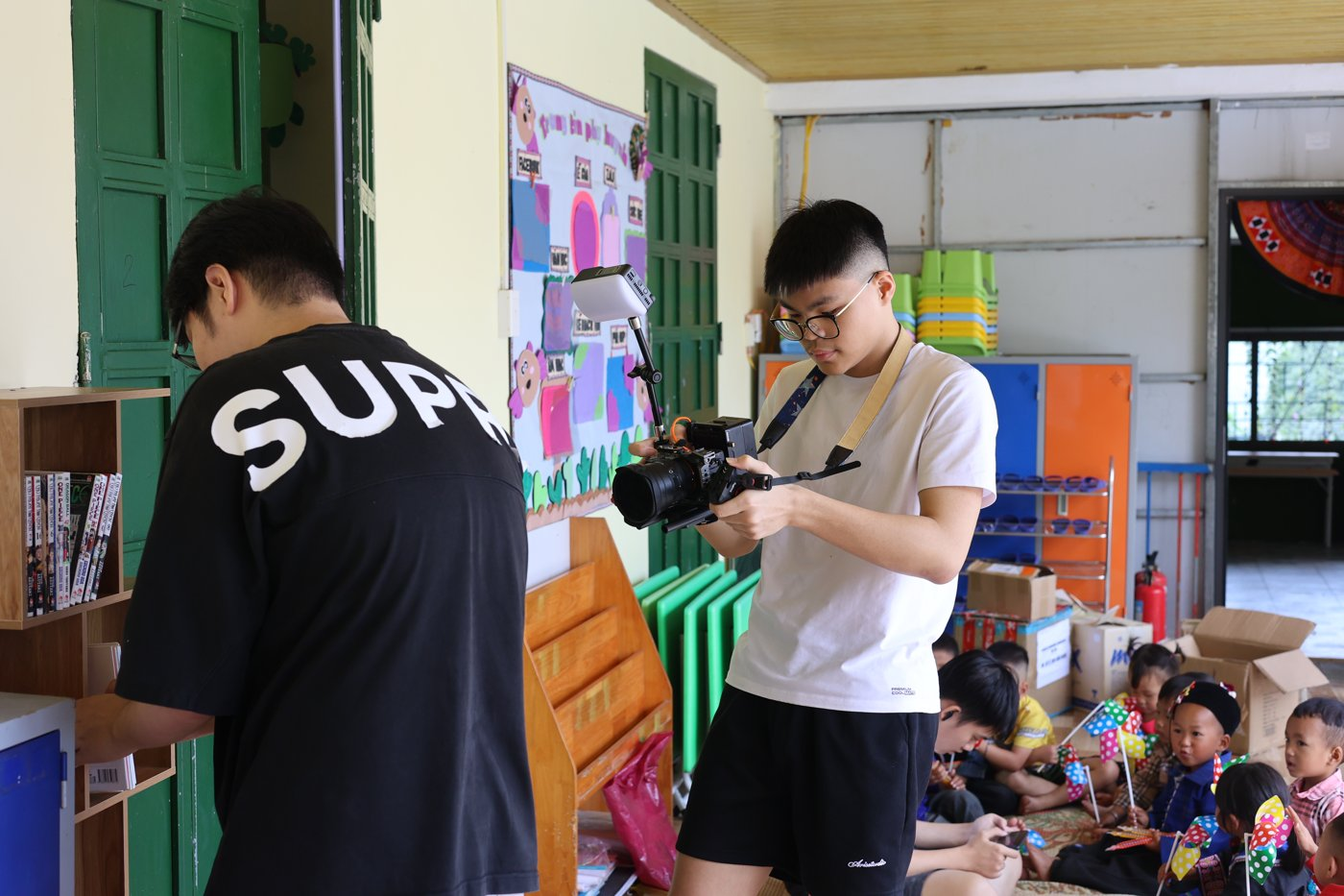
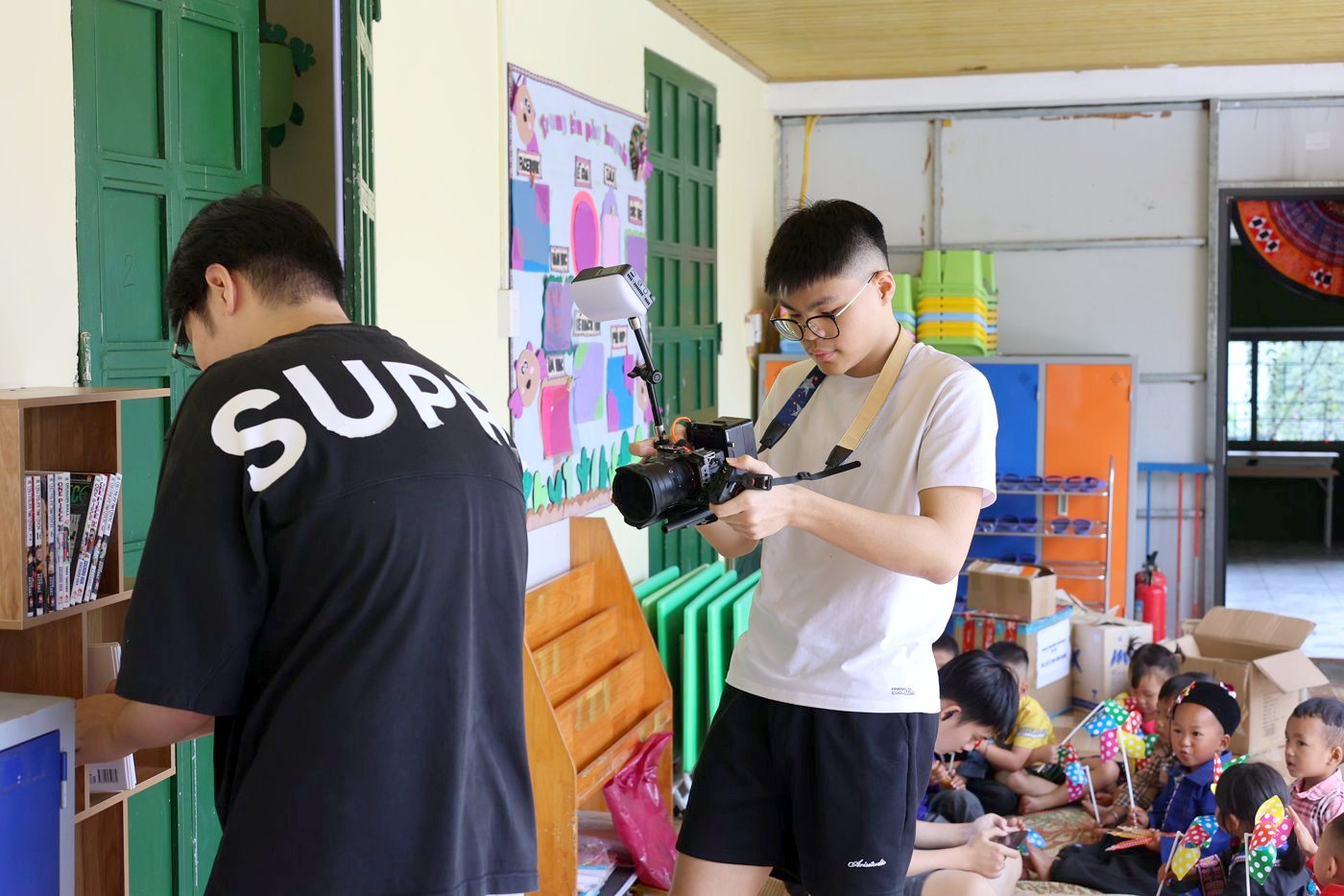
Group community photos by project, 4 photos each; brighten dim photos
- Community section now organised by project (Kindle, PurePath, YEIA, Sổ Tay Tài Chính, Butter Up) instead of by day
- Each project shows 4 distinct photos; Kindle keeps the group hero shot
- Mild exposure/contrast/colour correction on 13 dim or washed-out photos

diff --git a/index.html b/index.html
@@ -20,7 +20,7 @@
       <a href="#project"><span data-en>Project</span><span data-vi>Dự án</span></a>
       <a href="#leadership"><span data-en>Leadership</span><span data-vi>Lãnh đạo</span></a>
       <a href="#ventures"><span data-en>Ventures</span><span data-vi>Khởi nghiệp</span></a>
-      <a href="#community"><span data-en>Community</span><span data-vi>Cộng đồng</span></a>
+      <a href="#community"><span data-en>In action</span><span data-vi>Hoạt động</span></a>
       <a href="#learning"><span data-en>Competitions</span><span data-vi>Cuộc thi</span></a>
       <a href="#research"><span data-en>Research</span><span data-vi>Nghiên cứu</span></a>
     </div>
@@ -46,7 +46,7 @@
       </p>
       <div class="cta">
         <a href="#ventures" class="btn btn-solid"><span data-en>See my ventures</span><span data-vi>Xem dự án khởi nghiệp</span></a>
-        <a href="#community" class="btn btn-ghost"><span data-en>Community work</span><span data-vi>Hoạt động cộng đồng</span></a>
+        <a href="#community" class="btn btn-ghost"><span data-en>Projects in action</span><span data-vi>Dự án &amp; hoạt động</span></a>
       </div>
     </div>
     <div class="hero-visual">
@@ -209,98 +209,87 @@
     <div class="wrap">
       <div class="sec-head">
         <span class="sec-num">05</span>
-        <h2><span data-en>Community volunteering</span><span data-vi>Hoạt động cộng đồng</span></h2>
-        <p class="sec-sub">Kindle · Lào Cai · 29–30/08/2026</p>
+        <h2><span data-en>Projects in action</span><span data-vi>Dự án &amp; hoạt động</span></h2>
+        <p class="sec-sub"><span data-en>Photos from Khôi's clubs and projects</span><span data-vi>Hình ảnh từ các CLB và dự án của Khôi</span></p>
       </div>
+      <nav class="proj-tabs rv" aria-label="Projects">
+        <a href="#p-kindle">Kindle</a>
+        <a href="#p-purepath">PurePath Project</a>
+        <a href="#p-yeia">Youth Environmental Initiatives Association</a>
+        <a href="#p-sotay">Sổ Tay Tài Chính</a>
+        <a href="#p-butterup">Butter Up</a>
+      </nav>
 
-      <div class="trip-intro rv">
-        <p class="big"><span data-en>A two-day trip organised through Kindle, where Khôi heads logistics and marketing. The team brought donated supplies to schools in a mountain district of Lào Cai, ran classroom activities, and spent a full day with the kindergarten children — planting flowers, crafting pinwheels, and cooking and serving their lunch.</span><span data-vi>Chuyến đi hai ngày do CLB Kindle tổ chức, nơi Khôi phụ trách hậu cần và truyền thông. Đoàn mang đồ quyên góp đến các điểm trường vùng cao Lào Cai, tổ chức hoạt động trên lớp và dành trọn một ngày với các bé mầm non — trồng hoa, làm chong chóng, nấu và chia cơm trưa.</span></p>
-      </div>
+      <article class="proj rv" id="p-kindle">
+        <div class="proj-head">
+          <h3>Kindle</h3>
+          <span class="pos"><span data-en>Head of Logistics &amp; Marketing</span><span data-vi>Trưởng ban Hậu cần &amp; Truyền thông</span></span>
+        </div>
+        <p class="proj-desc"><span data-en>Volunteer club. Khôi runs logistics, budget and donation campaigns — including a two-day trip to schools in a mountain district of Lào Cai (29–30/08/2026) to deliver donated supplies, run classroom activities and fix up a kindergarten.</span><span data-vi>CLB thiện nguyện. Khôi phụ trách hậu cần, ngân sách và chiến dịch quyên góp — trong đó có chuyến đi hai ngày tới các điểm trường vùng cao Lào Cai (29–30/08/2026) để trao đồ quyên góp, tổ chức hoạt động trên lớp và sửa sang trường mầm non.</span></p>
+        <a class="hero-shot" href="assets/img/trip-group-photo.jpg" data-lb data-cap="Group photo with the children"><img src="assets/img/trip-group-photo.jpg" alt="Group photo with the children" loading="lazy"></a>
+        <div class="m-grid" style="--n:4">
+          <figure><a href="assets/img/trip-d1-arrival-donations.jpg" data-lb data-cap="Kindle — Carrying donated supplies"><img src="assets/img/trip-d1-arrival-donations.jpg" alt="Carrying donated supplies" loading="lazy"></a><figcaption><span data-en>Carrying donated supplies</span><span data-vi>Chuyển đồ quyên góp</span></figcaption></figure>
+          <figure><a href="assets/img/trip-d1-gifts.jpg" data-lb data-cap="Kindle — Handing out school supplies"><img src="assets/img/trip-d1-gifts.jpg" alt="Handing out school supplies" loading="lazy"></a><figcaption><span data-en>Handing out school supplies</span><span data-vi>Trao đồ dùng học tập</span></figcaption></figure>
+          <figure><a href="assets/img/trip-d1-class-photo.jpg" data-lb data-cap="Kindle — Class photo with the students"><img src="assets/img/trip-d1-class-photo.jpg" alt="Class photo with the students" loading="lazy"></a><figcaption><span data-en>Class photo with the students</span><span data-vi>Chụp ảnh cùng lớp</span></figcaption></figure>
+          <figure><a href="assets/img/trip-d2-cabinet.jpg" data-lb data-cap="Kindle — Installing a new cabinet"><img src="assets/img/trip-d2-cabinet.jpg" alt="Installing a new cabinet" loading="lazy"></a><figcaption><span data-en>Installing a new cabinet</span><span data-vi>Lắp tủ đồ dùng mới</span></figcaption></figure>
+        </div>
+      </article>
 
-      <a class="hero-shot rv" href="assets/img/trip-group-photo.jpg" data-lb data-cap="Group photo with the children">
-        <img src="assets/img/trip-group-photo.jpg" alt="Group photo of the volunteer team with the children" loading="lazy">
-      </a>
+      <article class="proj rv" id="p-purepath">
+        <div class="proj-head">
+          <h3>PurePath Project</h3>
+          <span class="pos"><span data-en>Co-founder</span><span data-vi>Đồng sáng lập</span></span>
+        </div>
+        <p class="proj-desc"><span data-en>Environmental project on air pollution — science activities that make chemistry and biology tangible, and planting greenery to clean the air.</span><span data-vi>Dự án môi trường về ô nhiễm không khí — hoạt động khoa học giúp kiến thức hóa, sinh trở nên gần gũi và trồng cây xanh làm sạch không khí.</span></p>
+        <div class="m-grid" style="--n:4">
+          <figure><a href="assets/img/trip-d2-planting-flowers.jpg" data-lb data-cap="PurePath Project — Potting plants"><img src="assets/img/trip-d2-planting-flowers.jpg" alt="Potting plants" loading="lazy"></a><figcaption><span data-en>Potting plants</span><span data-vi>Trồng cây vào chậu</span></figcaption></figure>
+          <figure><a href="assets/img/trip-d2-flowers-3.jpg" data-lb data-cap="PurePath Project — Planting with teammates"><img src="assets/img/trip-d2-flowers-3.jpg" alt="Planting with teammates" loading="lazy"></a><figcaption><span data-en>Planting with teammates</span><span data-vi>Trồng cây cùng đồng đội</span></figcaption></figure>
+          <figure><a href="assets/img/khoi-science-activity.jpg" data-lb data-cap="PurePath Project — Hands-on science activity"><img src="assets/img/khoi-science-activity.jpg" alt="Hands-on science activity" loading="lazy"></a><figcaption><span data-en>Hands-on science activity</span><span data-vi>Hoạt động khoa học thực hành</span></figcaption></figure>
+          <figure><a href="assets/img/trip-d2-bunting-2.jpg" data-lb data-cap="PurePath Project — Setting up an outdoor activity"><img src="assets/img/trip-d2-bunting-2.jpg" alt="Setting up an outdoor activity" loading="lazy"></a><figcaption><span data-en>Setting up an outdoor activity</span><span data-vi>Chuẩn bị hoạt động ngoài trời</span></figcaption></figure>
+        </div>
+      </article>
 
-      <div class="day rv">
-        <div class="day-label"><b><span data-en>Day 1</span><span data-vi>Ngày 1</span></b><span>29/08 · <span data-en>Primary school — gifts &amp; classes</span><span data-vi>Trường tiểu học — trao quà &amp; lớp học</span></span></div>
-        <div class="moment">
-          <h3 class="m-title"><span data-en>Arrival &amp; gift-giving</span><span data-vi>Đến nơi &amp; trao quà</span><small>4</small></h3>
-          <div class="m-grid" style="--n:4">
-            <figure><a href="assets/img/trip-d1-arrival-donations.jpg" data-lb data-cap="Carrying donated supplies from the bus"><img src="assets/img/trip-d1-arrival-donations.jpg" alt="Carrying donated supplies from the bus" loading="lazy"></a><figcaption><span data-en>Carrying donated supplies from the bus</span><span data-vi>Chuyển đồ quyên góp từ xe xuống</span></figcaption></figure>
-            <figure><a href="assets/img/trip-d1-gifts.jpg" data-lb data-cap="Handing school supplies to a student"><img src="assets/img/trip-d1-gifts.jpg" alt="Handing school supplies to a student" loading="lazy"></a><figcaption><span data-en>Handing school supplies to a student</span><span data-vi>Trao đồ dùng học tập cho học sinh</span></figcaption></figure>
-            <figure><a href="assets/img/trip-d1-gifts-2.jpg" data-lb data-cap="Presenting gifts in the classroom"><img src="assets/img/trip-d1-gifts-2.jpg" alt="Presenting gifts in the classroom" loading="lazy"></a><figcaption><span data-en>Presenting gifts in the classroom</span><span data-vi>Trao quà tại lớp học</span></figcaption></figure>
-            <figure><a href="assets/img/trip-d1-gifts-3.jpg" data-lb data-cap="Gift ceremony with the students"><img src="assets/img/trip-d1-gifts-3.jpg" alt="Gift ceremony with the students" loading="lazy"></a><figcaption><span data-en>Gift ceremony with the students</span><span data-vi>Buổi trao quà cùng các em</span></figcaption></figure>
-          </div>
+      <article class="proj rv" id="p-yeia">
+        <div class="proj-head">
+          <h3>Youth Environmental Initiatives Association</h3>
+          <span class="pos"><span data-en>Vice President</span><span data-vi>Phó Chủ nhiệm</span></span>
         </div>
-        <div class="moment">
-          <h3 class="m-title"><span data-en>Lessons with the students</span><span data-vi>Hoạt động cùng học sinh</span><small>4</small></h3>
-          <div class="m-grid" style="--n:4">
-            <figure><a href="assets/img/trip-d1-lesson-1.jpg" data-lb data-cap="Opening the class activity"><img src="assets/img/trip-d1-lesson-1.jpg" alt="Opening the class activity" loading="lazy"></a><figcaption><span data-en>Opening the class activity</span><span data-vi>Mở đầu hoạt động trên lớp</span></figcaption></figure>
-            <figure><a href="assets/img/trip-d1-lesson-2.jpg" data-lb data-cap="Helping students at their desks"><img src="assets/img/trip-d1-lesson-2.jpg" alt="Helping students at their desks" loading="lazy"></a><figcaption><span data-en>Helping students at their desks</span><span data-vi>Hướng dẫn các em tại bàn</span></figcaption></figure>
-            <figure><a href="assets/img/trip-d1-lesson-3.jpg" data-lb data-cap="Working through the activity together"><img src="assets/img/trip-d1-lesson-3.jpg" alt="Working through the activity together" loading="lazy"></a><figcaption><span data-en>Working through the activity together</span><span data-vi>Cùng các em làm hoạt động</span></figcaption></figure>
-            <figure><a href="assets/img/trip-d1-lesson-4.jpg" data-lb data-cap="Interactive lesson at the board"><img src="assets/img/trip-d1-lesson-4.jpg" alt="Interactive lesson at the board" loading="lazy"></a><figcaption><span data-en>Interactive lesson at the board</span><span data-vi>Tiết học tương tác trên bảng</span></figcaption></figure>
-          </div>
+        <p class="proj-desc"><span data-en>Environmental awareness club — greening activities with members ahead of a reforestation-focused season.</span><span data-vi>CLB môi trường — hoạt động phủ xanh cùng thành viên, chuẩn bị cho mùa hoạt động về trồng rừng.</span></p>
+        <div class="m-grid" style="--n:4">
+          <figure><a href="assets/img/trip-d2-flowers-2.jpg" data-lb data-cap="Youth Environmental Initiatives Association — Preparing the pots"><img src="assets/img/trip-d2-flowers-2.jpg" alt="Preparing the pots" loading="lazy"></a><figcaption><span data-en>Preparing the pots</span><span data-vi>Chuẩn bị chậu cây</span></figcaption></figure>
+          <figure><a href="assets/img/trip-d2-flowers-4.jpg" data-lb data-cap="Youth Environmental Initiatives Association — Planting in the garden bed"><img src="assets/img/trip-d2-flowers-4.jpg" alt="Planting in the garden bed" loading="lazy"></a><figcaption><span data-en>Planting in the garden bed</span><span data-vi>Trồng cây ở bồn đất</span></figcaption></figure>
+          <figure><a href="assets/img/trip-d2-bunting-1.jpg" data-lb data-cap="Youth Environmental Initiatives Association — Decorating the schoolyard"><img src="assets/img/trip-d2-bunting-1.jpg" alt="Decorating the schoolyard" loading="lazy"></a><figcaption><span data-en>Decorating the schoolyard</span><span data-vi>Trang trí sân trường</span></figcaption></figure>
+          <figure><a href="assets/img/trip-d1-classroom.jpg" data-lb data-cap="Youth Environmental Initiatives Association — Talking with students"><img src="assets/img/trip-d1-classroom.jpg" alt="Talking with students" loading="lazy"></a><figcaption><span data-en>Talking with students</span><span data-vi>Trò chuyện cùng học sinh</span></figcaption></figure>
         </div>
-        <div class="moment">
-          <h3 class="m-title"><span data-en>Wrapping up the class</span><span data-vi>Kết thúc buổi học</span><small>3</small></h3>
-          <div class="m-grid" style="--n:3">
-            <figure><a href="assets/img/trip-d1-classroom.jpg" data-lb data-cap="Classroom activity"><img src="assets/img/trip-d1-classroom.jpg" alt="Classroom activity" loading="lazy"></a><figcaption><span data-en>Classroom activity</span><span data-vi>Hoạt động trên lớp</span></figcaption></figure>
-            <figure><a href="assets/img/trip-d1-class-photo.jpg" data-lb data-cap="Class photo with the students"><img src="assets/img/trip-d1-class-photo.jpg" alt="Class photo with the students" loading="lazy"></a><figcaption><span data-en>Class photo with the students</span><span data-vi>Chụp ảnh cùng lớp</span></figcaption></figure>
-            <figure><a href="assets/img/trip-d1-class-photo-2.jpg" data-lb data-cap="Saying goodbye to the class"><img src="assets/img/trip-d1-class-photo-2.jpg" alt="Saying goodbye to the class" loading="lazy"></a><figcaption><span data-en>Saying goodbye to the class</span><span data-vi>Chào tạm biệt lớp học</span></figcaption></figure>
-          </div>
-        </div>
-      </div>
+      </article>
 
-      <div class="day rv">
-        <div class="day-label"><b><span data-en>Day 2</span><span data-vi>Ngày 2</span></b><span>30/08 · <span data-en>A day at the kindergarten</span><span data-vi>Một ngày ở trường mầm non</span></span></div>
-        <div class="moment">
-          <h3 class="m-title"><span data-en>Getting the school ready</span><span data-vi>Trang trí &amp; sửa sang trường</span><small>4</small></h3>
-          <div class="m-grid" style="--n:4">
-            <figure><a href="assets/img/trip-d2-bunting-1.jpg" data-lb data-cap="Untangling bunting for the schoolyard"><img src="assets/img/trip-d2-bunting-1.jpg" alt="Untangling bunting for the schoolyard" loading="lazy"></a><figcaption><span data-en>Untangling bunting for the schoolyard</span><span data-vi>Gỡ dây cờ trang trí sân trường</span></figcaption></figure>
-            <figure><a href="assets/img/trip-d2-bunting-2.jpg" data-lb data-cap="Hanging flags across the yard"><img src="assets/img/trip-d2-bunting-2.jpg" alt="Hanging flags across the yard" loading="lazy"></a><figcaption><span data-en>Hanging flags across the yard</span><span data-vi>Treo cờ quanh sân trường</span></figcaption></figure>
-            <figure><a href="assets/img/trip-d2-cabinet.jpg" data-lb data-cap="Installing a new cabinet"><img src="assets/img/trip-d2-cabinet.jpg" alt="Installing a new cabinet" loading="lazy"></a><figcaption><span data-en>Installing a new cabinet</span><span data-vi>Lắp tủ đồ dùng mới</span></figcaption></figure>
-            <figure><a href="assets/img/khoi-building-shelf.jpg" data-lb data-cap="Assembling wooden shelving"><img src="assets/img/khoi-building-shelf.jpg" alt="Assembling wooden shelving" loading="lazy"></a><figcaption><span data-en>Assembling wooden shelving</span><span data-vi>Lắp ráp kệ gỗ</span></figcaption></figure>
-          </div>
+      <article class="proj rv" id="p-sotay">
+        <div class="proj-head">
+          <h3>Sổ Tay Tài Chính</h3>
+          <span class="pos"><span data-en>Co-founder</span><span data-vi>Đồng sáng lập</span></span>
         </div>
-        <div class="moment">
-          <h3 class="m-title"><span data-en>Planting flowers</span><span data-vi>Trồng hoa sân trường</span><small>4</small></h3>
-          <div class="m-grid" style="--n:4">
-            <figure><a href="assets/img/trip-d2-planting-flowers.jpg" data-lb data-cap="Potting chrysanthemums"><img src="assets/img/trip-d2-planting-flowers.jpg" alt="Potting chrysanthemums" loading="lazy"></a><figcaption><span data-en>Potting chrysanthemums</span><span data-vi>Trồng chậu hoa cúc</span></figcaption></figure>
-            <figure><a href="assets/img/trip-d2-flowers-2.jpg" data-lb data-cap="Preparing the flower pots"><img src="assets/img/trip-d2-flowers-2.jpg" alt="Preparing the flower pots" loading="lazy"></a><figcaption><span data-en>Preparing the flower pots</span><span data-vi>Chuẩn bị chậu hoa</span></figcaption></figure>
-            <figure><a href="assets/img/trip-d2-flowers-3.jpg" data-lb data-cap="Teammates planting along the yard"><img src="assets/img/trip-d2-flowers-3.jpg" alt="Teammates planting along the yard" loading="lazy"></a><figcaption><span data-en>Teammates planting along the yard</span><span data-vi>Đồng đội trồng hoa quanh sân</span></figcaption></figure>
-            <figure><a href="assets/img/trip-d2-flowers-4.jpg" data-lb data-cap="Planting together in the garden bed"><img src="assets/img/trip-d2-flowers-4.jpg" alt="Planting together in the garden bed" loading="lazy"></a><figcaption><span data-en>Planting together in the garden bed</span><span data-vi>Cùng trồng hoa ở bồn cây</span></figcaption></figure>
-          </div>
+        <p class="proj-desc"><span data-en>A financial handbook for children — learning how to explain ideas simply by teaching, reading and making things with kids.</span><span data-vi>Sổ tay tài chính cho trẻ em — học cách truyền đạt đơn giản qua dạy học, đọc sách và làm đồ chơi cùng các em.</span></p>
+        <div class="m-grid" style="--n:4">
+          <figure><a href="assets/img/trip-d1-lesson-3.jpg" data-lb data-cap="Sổ Tay Tài Chính — Working through an activity together"><img src="assets/img/trip-d1-lesson-3.jpg" alt="Working through an activity together" loading="lazy"></a><figcaption><span data-en>Working through an activity together</span><span data-vi>Cùng các em làm hoạt động</span></figcaption></figure>
+          <figure><a href="assets/img/trip-d1-lesson-2.jpg" data-lb data-cap="Sổ Tay Tài Chính — Helping students at their desks"><img src="assets/img/trip-d1-lesson-2.jpg" alt="Helping students at their desks" loading="lazy"></a><figcaption><span data-en>Helping students at their desks</span><span data-vi>Hướng dẫn các em tại bàn</span></figcaption></figure>
+          <figure><a href="assets/img/trip-d2-reading-corner.jpg" data-lb data-cap="Sổ Tay Tài Chính — Story time with children"><img src="assets/img/trip-d2-reading-corner.jpg" alt="Story time with children" loading="lazy"></a><figcaption><span data-en>Story time with children</span><span data-vi>Đọc truyện cùng các em</span></figcaption></figure>
+          <figure><a href="assets/img/trip-d2-pinwheels.jpg" data-lb data-cap="Sổ Tay Tài Chính — Making pinwheels with kids"><img src="assets/img/trip-d2-pinwheels.jpg" alt="Making pinwheels with kids" loading="lazy"></a><figcaption><span data-en>Making pinwheels with kids</span><span data-vi>Làm chong chóng cùng các em</span></figcaption></figure>
         </div>
-        <div class="moment">
-          <h3 class="m-title"><span data-en>Story time &amp; pinwheels</span><span data-vi>Đọc truyện &amp; làm chong chóng</span><small>4</small></h3>
-          <div class="m-grid" style="--n:4">
-            <figure><a href="assets/img/trip-d2-reading-corner.jpg" data-lb data-cap="Story time in the reading corner"><img src="assets/img/trip-d2-reading-corner.jpg" alt="Story time in the reading corner" loading="lazy"></a><figcaption><span data-en>Story time in the reading corner</span><span data-vi>Đọc truyện ở góc thư viện</span></figcaption></figure>
-            <figure><a href="assets/img/trip-d2-reading-2.jpg" data-lb data-cap="Reading with the children"><img src="assets/img/trip-d2-reading-2.jpg" alt="Reading with the children" loading="lazy"></a><figcaption><span data-en>Reading with the children</span><span data-vi>Đọc sách cùng các bé</span></figcaption></figure>
-            <figure><a href="assets/img/trip-d2-pinwheels.jpg" data-lb data-cap="Making pinwheels with the kids"><img src="assets/img/trip-d2-pinwheels.jpg" alt="Making pinwheels with the kids" loading="lazy"></a><figcaption><span data-en>Making pinwheels with the kids</span><span data-vi>Làm chong chóng cùng các bé</span></figcaption></figure>
-            <figure><a href="assets/img/trip-d2-pinwheels-2.jpg" data-lb data-cap="Showing the kids how to fold"><img src="assets/img/trip-d2-pinwheels-2.jpg" alt="Showing the kids how to fold" loading="lazy"></a><figcaption><span data-en>Showing the kids how to fold</span><span data-vi>Hướng dẫn các bé gấp chong chóng</span></figcaption></figure>
-          </div>
-        </div>
-        <div class="moment">
-          <h3 class="m-title"><span data-en>Cooking &amp; serving lunch</span><span data-vi>Nấu &amp; chia cơm trưa</span><small>4</small></h3>
-          <div class="m-grid" style="--n:4">
-            <figure><a href="assets/img/trip-d2-lunch-prep.jpg" data-lb data-cap="Portioning lunch trays"><img src="assets/img/trip-d2-lunch-prep.jpg" alt="Portioning lunch trays" loading="lazy"></a><figcaption><span data-en>Portioning lunch trays</span><span data-vi>Chia khay cơm trưa</span></figcaption></figure>
-            <figure><a href="assets/img/trip-d2-lunch-2.jpg" data-lb data-cap="Preparing the meat dish"><img src="assets/img/trip-d2-lunch-2.jpg" alt="Preparing the meat dish" loading="lazy"></a><figcaption><span data-en>Preparing the meat dish</span><span data-vi>Chuẩn bị món thịt</span></figcaption></figure>
-            <figure><a href="assets/img/trip-d2-lunch-3.jpg" data-lb data-cap="Serving rice with the team"><img src="assets/img/trip-d2-lunch-3.jpg" alt="Serving rice with the team" loading="lazy"></a><figcaption><span data-en>Serving rice with the team</span><span data-vi>Cùng đội xới cơm</span></figcaption></figure>
-            <figure><a href="assets/img/trip-d2-lunch-4.jpg" data-lb data-cap="Lunch trays ready for the children"><img src="assets/img/trip-d2-lunch-4.jpg" alt="Lunch trays ready for the children" loading="lazy"></a><figcaption><span data-en>Lunch trays ready for the children</span><span data-vi>Các khay cơm sẵn sàng cho bé</span></figcaption></figure>
-          </div>
-        </div>
-      </div>
+      </article>
 
-      <div class="day rv">
-        <div class="day-label"><b><span data-en>More</span><span data-vi>Thêm</span></b><span><span data-en>Science, filming &amp; the team</span><span data-vi>Khoa học, quay phim &amp; đồng đội</span></span></div>
-        <div class="strip">
-          <a href="assets/img/khoi-science-activity.jpg" data-lb data-cap="Hands-on science activity"><img src="assets/img/khoi-science-activity.jpg" alt="Running a hands-on science activity with children" loading="lazy"></a>
-          <a href="assets/img/trip-d2-pinwheels-3.jpg" data-lb data-cap="Finishing a pinwheel"><img src="assets/img/trip-d2-pinwheels-3.jpg" alt="Finishing a paper pinwheel with the children" loading="lazy"></a>
-          <a href="assets/img/khoi-group-work.jpg" data-lb data-cap="Filming the trip"><img src="assets/img/khoi-group-work.jpg" alt="Filming the volunteering trip" loading="lazy"></a>
-          <a href="assets/img/khoi-teamwork-closeup.jpg" data-lb data-cap="Presenting a parent-engagement board"><img src="assets/img/khoi-teamwork-closeup.jpg" alt="Presenting a parent-engagement planning board" loading="lazy"></a>
-          <a href="assets/img/khoi-team-meal.jpg" data-lb data-cap="Team meal"><img src="assets/img/khoi-team-meal.jpg" alt="Team meal with fellow volunteers" loading="lazy"></a>
+      <article class="proj rv" id="p-butterup">
+        <div class="proj-head">
+          <h3>Butter Up</h3>
+          <span class="pos"><span data-en>Co-founder &amp; Head of Marketing</span><span data-vi>Đồng sáng lập &amp; Trưởng ban Marketing</span></span>
         </div>
-      </div>
+        <p class="proj-desc"><span data-en>Charity-fundraising bakery run by high schoolers — food preparation, serving, and content for marketing.</span><span data-vi>Tiệm bánh gây quỹ từ thiện của học sinh THPT — chuẩn bị đồ ăn, phục vụ và sản xuất nội dung marketing.</span></p>
+        <div class="m-grid" style="--n:4">
+          <figure><a href="assets/img/trip-d2-lunch-prep.jpg" data-lb data-cap="Butter Up — Portioning food trays"><img src="assets/img/trip-d2-lunch-prep.jpg" alt="Portioning food trays" loading="lazy"></a><figcaption><span data-en>Portioning food trays</span><span data-vi>Chia khay đồ ăn</span></figcaption></figure>
+          <figure><a href="assets/img/trip-d2-lunch-3.jpg" data-lb data-cap="Butter Up — Serving with the team"><img src="assets/img/trip-d2-lunch-3.jpg" alt="Serving with the team" loading="lazy"></a><figcaption><span data-en>Serving with the team</span><span data-vi>Cùng đội phục vụ</span></figcaption></figure>
+          <figure><a href="assets/img/khoi-group-work.jpg" data-lb data-cap="Butter Up — Filming content"><img src="assets/img/khoi-group-work.jpg" alt="Filming content" loading="lazy"></a><figcaption><span data-en>Filming content</span><span data-vi>Quay nội dung</span></figcaption></figure>
+          <figure><a href="assets/img/khoi-teamwork-closeup.jpg" data-lb data-cap="Butter Up — Presenting a planning board"><img src="assets/img/khoi-teamwork-closeup.jpg" alt="Presenting a planning board" loading="lazy"></a><figcaption><span data-en>Presenting a planning board</span><span data-vi>Trình bày bảng kế hoạch</span></figcaption></figure>
+        </div>
+      </article>
     </div>
   </section>
 

diff --git a/assets/css/site.css b/assets/css/site.css
@@ -257,8 +257,8 @@ html[lang="en"] .lang .l-en, html[lang="vi"] .lang .l-vi{color:var(--green)}
   .roles .role:nth-child(5){grid-column:1/-1}
   .grid4{grid-template-columns:repeat(2,1fr)}
   .m-grid{grid-template-columns:repeat(2,1fr)}
-  .m-grid[style*="--n:3"] figure:last-child{grid-column:1/-1}
-  .m-grid[style*="--n:3"] figure:last-child img{aspect-ratio:16/10}
+  .m-grid figure:last-child:nth-child(odd){grid-column:1/-1}
+  .m-grid figure:last-child:nth-child(odd) img{aspect-ratio:16/10}
   .inova-shots{grid-template-columns:1fr 1fr}
   .strip{grid-template-columns:repeat(3,1fr)}
   .section{padding:64px 0}
@@ -276,3 +276,15 @@ html[lang="en"] .lang .l-en, html[lang="vi"] .lang .l-vi{color:var(--green)}
   .to-top{margin-left:0}
   .lb-prev, .lb-next{top:auto;bottom:18px;transform:none}
 }
+
+/* projects in action */
+.proj-tabs{display:flex;flex-wrap:wrap;gap:8px;margin:-8px 0 8px}
+.proj-tabs a{padding:7px 14px;border-radius:999px;background:var(--paper-2);border:1px solid var(--line);font-size:.84rem;font-weight:600;text-decoration:none;color:var(--ink-2);transition:background .2s,color .2s}
+.proj-tabs a:hover{background:var(--ink);color:var(--paper);border-color:var(--ink)}
+.proj{margin-top:48px;padding-top:28px;border-top:1.5px solid var(--ink)}
+.proj-head{display:flex;align-items:baseline;flex-wrap:wrap;gap:6px 16px;margin-bottom:8px}
+.proj-head h3{font-family:var(--serif);font-weight:600;font-size:clamp(1.4rem,2.6vw,1.9rem);letter-spacing:-.015em;margin:0}
+.proj-desc{margin:0 0 22px;max-width:52em;color:var(--ink-2)}
+.proj .hero-shot{margin-bottom:16px}
+.proj .hero-shot img{aspect-ratio:16/7}
+@media (max-width:520px){.proj .hero-shot img{aspect-ratio:4/3}}
